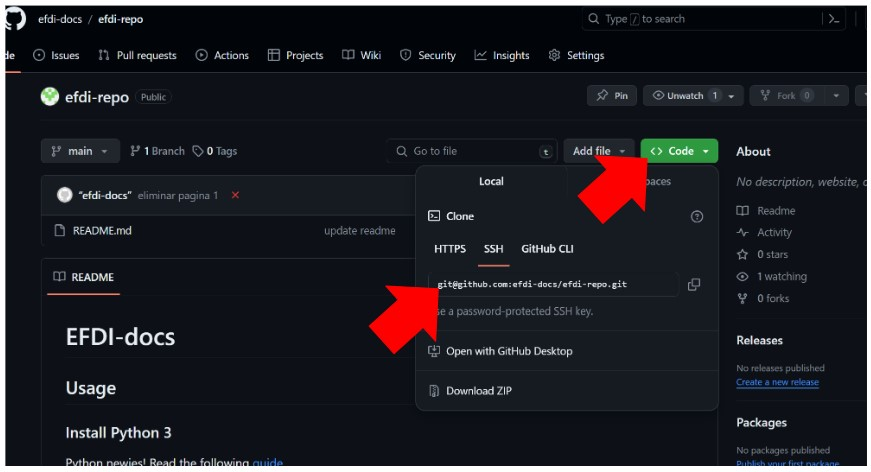
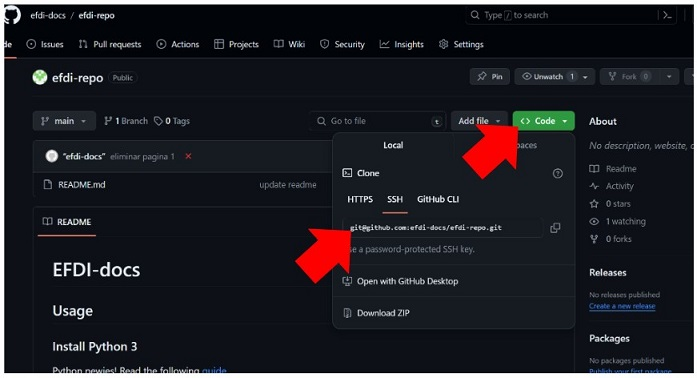
v

diff --git a/docs/tecnicos/mt01.md b/docs/tecnicos/mt01.md
@@ -103,6 +103,7 @@ El objetivo de esta semana es crear mi propio sitio web, dónde documentaré el 
 Para completar la tarea, utilicé los tutoriales disponibles en Plataforma EDU.
 Utilicé GITHUB como hosting, Git como control de versiones, y Visual Studio como software de edición.
 
+
 **1**. Crear una cuenta en **[Github](https://github.com/)**
 
 Al resgistrar el nombre de usuario, tener en cuenta que quedará visible en el link de la página web.
@@ -156,7 +157,7 @@ Para editar el código en Visual Studio Code, se debe agregar la carpeta dónde 
 Cada vez que se realizan cambios, para actualizar la página:
 
 - Salvar los cambios (Ctrl + S)
-- Ir a "Source Control", poner un nombre al cambio, hacer **"Commit"** y **"Sync Changes"**. Es importante poner nombre antes de hacer el commit.
+- Ir a **"Source Control"**, poner un nombre al cambio, hacer **"Commit"** y **"Sync Changes"**. Es importante poner nombre antes de hacer el commit.
 - Verificar que los cambios se reflejan en la página web y/o Github
 
 Algunas capturas del proceso:
@@ -171,11 +172,11 @@ Algunas capturas del proceso:
 
 *Edición de MKDOCS en VS*
 
-![](../images/mkdocs.png) 
+![](../images/mkdocs.jpg) 
 
 *Actualización de web en Github*
 
-![](../images/flow.png) 
+![](../images/flow.jpg) 
 
 
 Notas:
